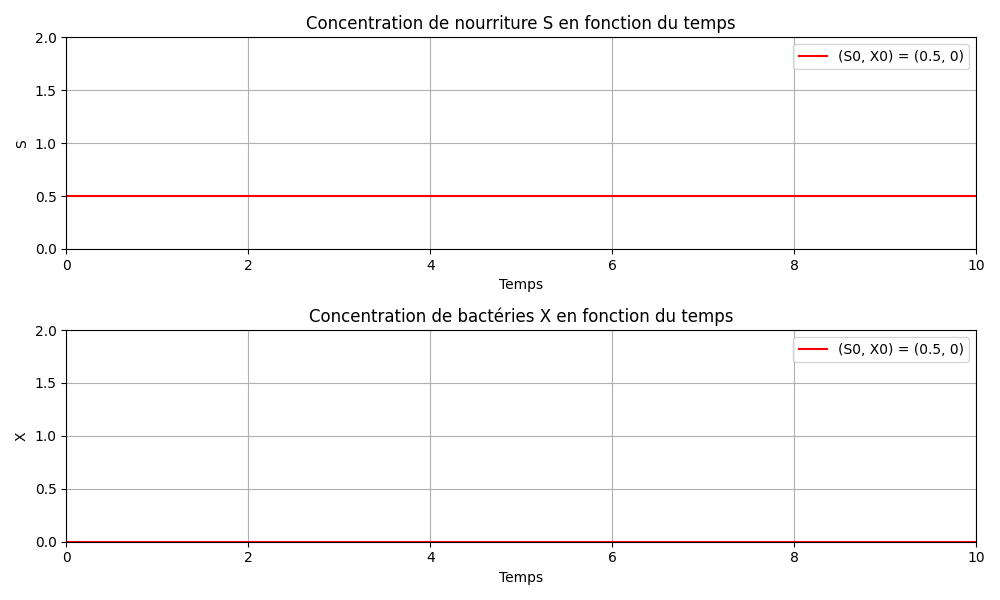
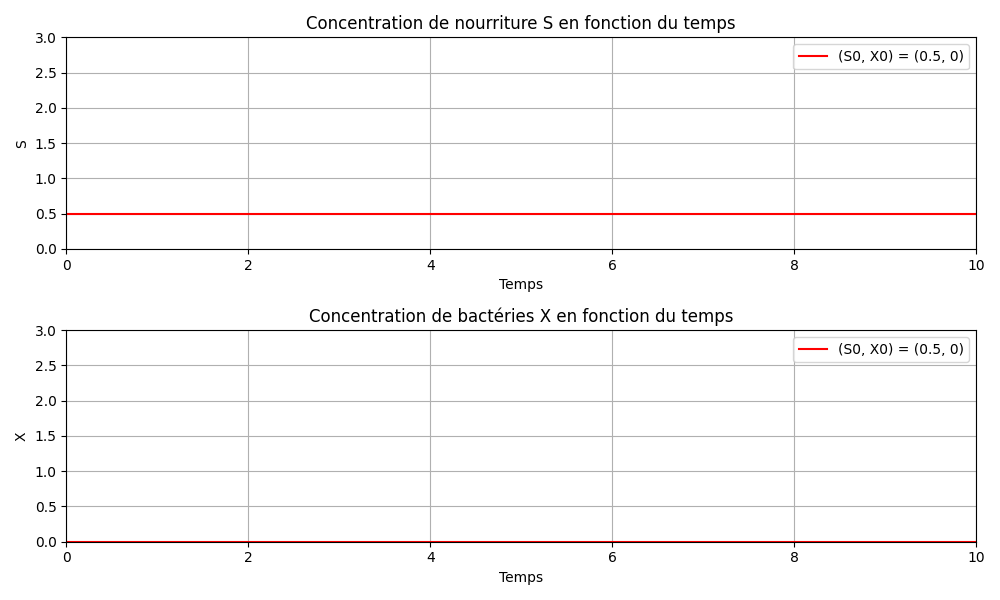
Fix axe stabilité

diff --git a/pysrc/main.py b/pysrc/main.py
@@ -100,7 +100,7 @@ def mainPointsCritiques(phase_diag=True, exprtpng=True):
     """Etudie le modèle aux points critiques"""
     # Les axes
     xaxis = Axis(0, 10, 15j)
-    yaxis = Axis(0, 2, 15j)
+    yaxis = Axis(0, 3, 15j)
     taxis = Axis(0, 10, 500)
     # Couleurs et formes
     col = Color()
